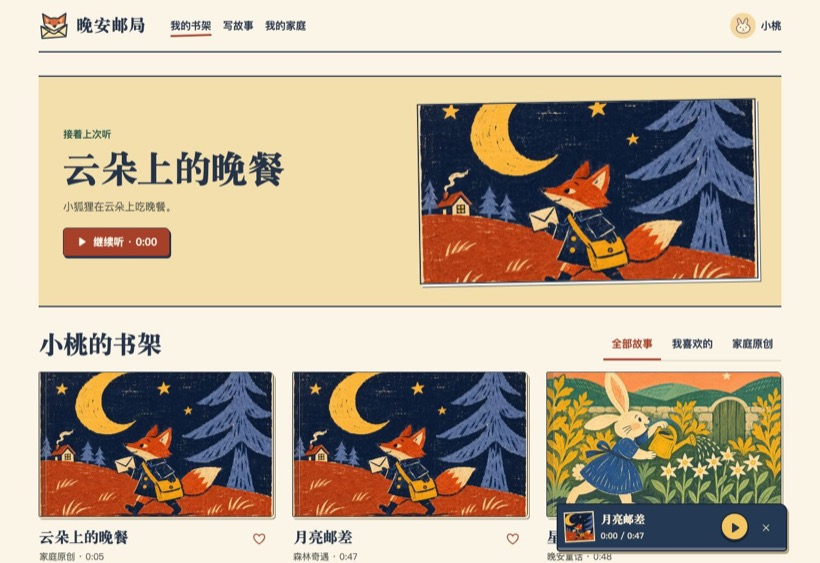
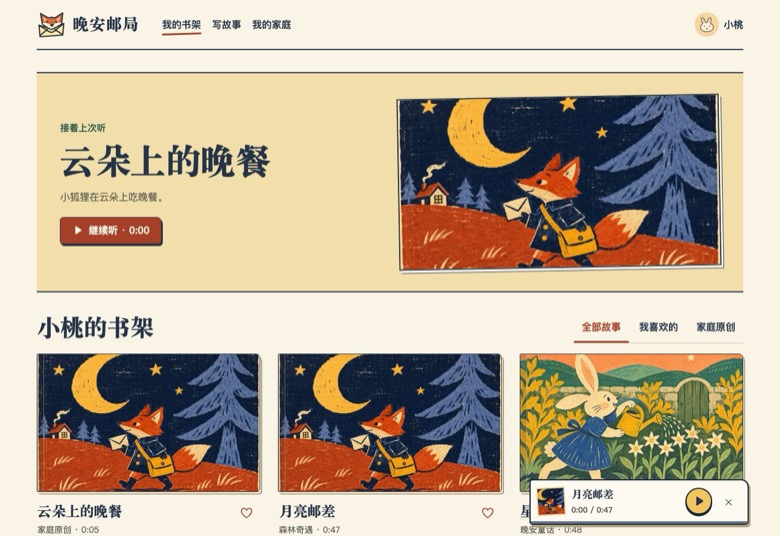
Unify the listening room and add custom sleep timing

diff --git a/web/storybook.css b/web/storybook.css
@@ -33,42 +33,50 @@
 .household .avatar{background:#e8dcbb}.household .card:last-child{border-top:1px dashed #ab9f85}
 #guide-family{max-width:600px;margin-inline:auto}
 .listening-room{max-width:1020px}
-.night{background:#1f3045;color:#fff2d5}.night .mast{color:var(--ink)}.night .mast-inner{border-bottom:0}
-.room-nav{display:flex;align-items:center;justify-content:space-between;margin:0 0 18px;color:#f1e2c6}
+.room-nav{display:flex;align-items:center;justify-content:space-between;margin:0 0 18px;color:var(--green)}
 .room-nav span,.room-back,.radio-series,.radio-tool,.transcript summary{display:inline-flex;align-items:center;gap:8px}.room-back{min-height:44px}
-.storybook-player{display:grid;grid-template-columns:minmax(0,1fr) minmax(0,1fr);align-items:center;border-block:1px solid #7a8998;background:#263b54}
+.storybook-player{display:grid;grid-template-columns:minmax(0,1fr) minmax(0,1fr);align-items:center;border-block:3px double var(--ink);background:#f7ecd3}
 .player-stage{position:relative;isolation:isolate;display:grid;place-items:center;min-width:0;padding:42px 18% 32px 8%;overflow:hidden}
 .story-window{position:relative;width:100%;max-width:340px;transform:rotate(-4deg)}
 .story-window:before{content:"";position:absolute;z-index:-1;right:-16%;top:5%;width:97%;aspect-ratio:1;border-radius:50%;background:repeating-radial-gradient(circle,#182531 0 3px,#47545c 3.5px 4px,#1d2935 4.5px 6px);box-shadow:2px 4px 3px #172735}
 .record-sleeve{padding:5px;background:#f4dfaf;border:1px solid #151f2c;box-shadow:3px 4px #172735}
 .record-sleeve img{display:block;width:100%;aspect-ratio:1;object-fit:cover}
-.story-window figcaption{display:flex;align-items:center;gap:8px;margin-top:9px;color:#eee1c3;font-size:.92rem}
-.stage-star,.stage-moon{position:absolute;z-index:-2;color:#c9ab70}.star-one{left:3%;top:7%}.star-two{right:5%;top:28%}.stage-moon{right:7%;bottom:7%}
+.story-window figcaption{display:flex;align-items:center;gap:8px;margin-top:9px;color:var(--green);font-size:.92rem}
+.stage-star,.stage-moon{position:absolute;z-index:-2;color:#a47a31}.star-one{left:3%;top:7%}.star-two{right:5%;top:28%}.stage-moon{right:7%;bottom:7%}
 .radio-face{min-width:0;padding:32px clamp(20px,3.2vw,46px) 32px 12px}
-.radio-series{color:#f3c661}.radio-face h1{font-size:clamp(2.5rem,5vw,4.3rem);overflow-wrap:anywhere;margin:8px 0;line-height:1.15}
-.radio-source,.radio-face .hint{color:#dddccc;font-size:.92rem}
+.radio-series{color:var(--green)}.radio-face h1{font-size:clamp(2.5rem,5vw,4.3rem);overflow-wrap:anywhere;margin:8px 0;line-height:1.15}
+.radio-source,.radio-face .hint{color:var(--muted);font-size:.92rem}
 .sound-track{margin:20px 0 10px}
 .sound-track #seek{display:block;appearance:none;width:100%;height:32px;margin:0;background:transparent;cursor:pointer;--played:0%}
-#seek::-webkit-slider-runnable-track{height:5px;border-radius:3px;background:linear-gradient(to right,var(--honey) var(--played),#738292 0)}
-#seek::-moz-range-track{height:5px;background:linear-gradient(to right,var(--honey) var(--played),#738292 0)}
-#seek::-webkit-slider-thumb{appearance:none;width:18px;height:18px;border:3px solid #f3c661;border-radius:50%;background:#fff9e6;margin-top:-6.5px}
-#seek::-moz-range-thumb{width:14px;height:14px;border:3px solid var(--honey);border-radius:50%;background:#fff9e6}
-#clock{display:flex;justify-content:space-between;color:#e8dec7;font-variant-numeric:tabular-nums}
+#seek::-webkit-slider-runnable-track{height:5px;border-radius:3px;background:linear-gradient(to right,var(--red) var(--played),#c4b89f 0)}
+#seek::-moz-range-track{height:5px;background:linear-gradient(to right,var(--red) var(--played),#c4b89f 0)}
+#seek::-webkit-slider-thumb{appearance:none;width:18px;height:18px;border:3px solid var(--red);border-radius:50%;background:#fff9e6;margin-top:-6.5px}
+#seek::-moz-range-thumb{width:14px;height:14px;border:3px solid var(--red);border-radius:50%;background:#fff9e6}
+#clock{display:flex;justify-content:space-between;color:var(--muted);font-variant-numeric:tabular-nums}
 .transport,.radio-tools,.listen-invite{display:flex;align-items:center;justify-content:center;gap:18px}
-.transport button{display:grid;place-items:center;min-width:48px;min-height:48px;color:#ffefd0}.transport small{color:#e8dec7;font-size:.78rem}
+.transport button{display:grid;place-items:center;min-width:48px;min-height:48px;color:var(--ink)}.transport small{color:var(--muted);font-size:.78rem}
 .transport .play-disc,.mini-play{display:grid;place-items:center;border-radius:50%;background:var(--honey);color:var(--ink);border:2px solid #162638;box-shadow:0 3px #122237}
-.transport .play-disc{width:70px;height:70px}
+.transport .play-disc{width:70px;height:70px}.play-disc span,.mini-play span{line-height:1}
 :is(.play-disc,.mini-play) .show-pause,:is(.play-disc,.mini-play)[data-playing=true] .show-play{display:none}
 :is(.play-disc,.mini-play)[data-playing=true] .show-pause{display:inline}
-.radio-tools{margin-top:17px;gap:24px}.radio-tool{border-bottom:1px dashed #bdaf91;color:#f6ead2}
-.transcript{padding:16px 0;border-bottom:1px solid #748193;color:#fbf0d6}.transcript p{max-width:42em;line-height:2;margin:14px 0}
+.radio-tools{margin-top:17px;gap:24px}.radio-tool{border-bottom:1px dashed #bdaf91;color:var(--green)}
+.transcript{margin:24px 2px 0;padding:0 clamp(16px,4vw,48px);border:1px solid #b9a682;border-radius:3px 9px 5px 4px;background:#fffaf0;box-shadow:2px 3px #e8dbbb,3px 4px #b9a682}
+.transcript summary{display:flex;min-height:68px;list-style:none;font:700 1.25rem var(--display);gap:14px}
+.transcript summary::-webkit-details-marker{display:none}
+.paper-stamp{display:grid;place-items:center;width:39px;height:43px;color:var(--red);background:#f6e8c9;border:2px dotted #ae8259;transform:rotate(-5deg)}
+.fold-arrow{margin-left:auto;color:var(--green)}.transcript[open] .fold-arrow{transform:rotate(180deg)}
+.story-letter{max-width:40em;margin:auto;padding:clamp(14px,3vw,36px) 0 12px;overflow-wrap:anywhere}
+.story-letter h2{text-align:center;font-size:clamp(1.5rem,3vw,2.1rem);margin:0 0 1em}
+.letter-text{font:clamp(1.05rem,2vw,1.2rem)/2 var(--display);white-space:pre-wrap;tab-size:2;background:repeating-linear-gradient(transparent 0 calc(2em - 1px),#e9dfcb calc(2em - 1px) 2em)}
+.letter-end{display:flex;justify-content:center;align-items:center;gap:12px;margin-top:1.3em;color:var(--red)}.letter-end:before,.letter-end:after{content:"";width:36px;border-top:1px solid #c7b497}
+.transcript .write-link{margin-bottom:12px}
 .listen-invite{flex-wrap:wrap;margin-top:26px}
-#mini{position:fixed;right:max(4vw,16px);bottom:max(18px,env(safe-area-inset-bottom));z-index:4;width:min(360px,92%);display:flex;align-items:center;gap:5px;padding:9px 9px 12px 10px;background:#243953;color:#fff2d6;border:2px solid #192739;border-radius:5px 12px 6px 5px;box-shadow:3px 4px #b5a483;overflow:hidden}
+#mini{position:fixed;right:max(4vw,16px);bottom:max(18px,env(safe-area-inset-bottom));z-index:4;width:min(360px,92%);display:flex;align-items:center;gap:5px;padding:9px 9px 12px 10px;background:var(--panel);color:var(--ink);border:2px solid #192739;border-radius:5px 12px 6px 5px;box-shadow:3px 4px #b5a483;overflow:hidden}
 #mini:after{content:"";position:absolute;bottom:0;left:0;right:0;height:4px;background:linear-gradient(to right,var(--honey) var(--played,0%),#677485 0)}
 .mini-story{display:flex;align-items:center;gap:10px;min-width:0;flex:1;text-align:left}
 .mini-story img{width:47px;height:47px;border:2px solid #f3dda9;object-fit:cover;transform:rotate(-3deg)}
 .mini-story span{min-width:0}.mini-story strong,.mini-clock{display:block}.mini-story strong{overflow:hidden;text-overflow:ellipsis;white-space:nowrap;font-family:var(--display);font-size:1.08rem}
-.mini-clock{color:#e2d9c7;font-size:.8rem;font-variant-numeric:tabular-nums}.mini-play,.mini-close{width:44px;height:44px;flex:none}.mini-close{color:#f5e7c7}
+.mini-clock{color:var(--muted);font-size:.8rem;font-variant-numeric:tabular-nums}.mini-play,.mini-close{width:44px;height:44px;flex:none}.mini-close{color:var(--green)}
 body:has(#mini:not([hidden])) .wrap{padding-bottom:122px}
 @media(max-width:730px){
   .mail-hero{grid-template-columns:1fr;padding:4px 3px 28px;gap:25px}.mail-copy{padding:0}
@@ -158,24 +166,23 @@ body:has(#app[aria-busy]) .mast-inner,
 #app[aria-busy] .ghost.action{width:7em;height:44px}
 #app[aria-busy] :is(.guide-loading-form,.join-loading-form){max-width:600px;margin:16px auto}
 #app[aria-busy] .join-loading-form{max-width:430px;margin-block:12vh}
-#app[data-loading-page=player]{--home-mask:linear-gradient(104deg,#34495e calc(var(--home-light) - 14vw),#495e73 var(--home-light),#34495e calc(var(--home-light) + 14vw))}
-#app[data-loading-page=player] .ghost{background-color:#34495e}
 #app[aria-busy] .ghost.square{width:100%;height:auto;aspect-ratio:1}
 #app[aria-busy] .ghost.track{height:6px;margin-block:34px}
 #app[aria-busy] .ghost.side-key,#app[aria-busy] .ghost.play-key{width:44px;height:44px;border-radius:50%}
 #app[aria-busy] .ghost.play-key{width:70px;height:70px}
 #app[aria-busy] .room-nav{min-height:44px}
-@media(prefers-reduced-motion:reduce){#app[data-loading-page=player]{--home-mask:none}}
 /* The round play marker belongs to the cover button and shares its hit area. */
-.sample-shelf .listen-dot,.sample-shelf .cover{transition:transform .16s ease-out,background-color .16s,color .16s,box-shadow .16s}
+.play-disc,.mini-play,.sample-shelf .listen-dot,.sample-shelf .cover{transition:transform .16s ease-out,background-color .16s,color .16s,box-shadow .16s}
 .sample-shelf .book-title{transition:color .16s,transform .16s}
 @media(hover:hover){
-  #app:not([aria-busy]) .sample-shelf .cover:hover .listen-dot{transform:scale(1.12);color:#fff9eb;background:var(--red);box-shadow:1px 2px var(--ink)}
+  :is(.transport .play-disc,.mini-play):hover,#app:not([aria-busy]) .sample-shelf .cover:hover .listen-dot{transform:scale(1.12);color:#fff9eb;background:var(--red);box-shadow:1px 2px var(--ink)}
   #app:not([aria-busy]) .sample-shelf .book-title:hover{color:var(--red);text-decoration:underline;text-underline-offset:.2em}
 }
-.sample-shelf .cover:focus-visible .listen-dot{background:var(--red);color:#fff9eb}
+:is(.transport .play-disc,.mini-play):focus-visible,.sample-shelf .cover:focus-visible .listen-dot{background:var(--red);color:#fff9eb}
 .sample-shelf .cover:active{transform:translateY(2px);box-shadow:none}
-#app:not([aria-busy]) .sample-shelf .cover:active .listen-dot{transform:scale(.92);background:var(--ink);color:var(--honey)}
+:is(.transport .play-disc,.mini-play):active,#app:not([aria-busy]) .sample-shelf .cover:active .listen-dot{transform:scale(.92);background:var(--ink);color:var(--honey)}
 .sample-shelf .book-title:active{transform:translateY(1px);color:var(--red)}
 .mast[inert] #sign-in,.mast[inert] .profile{border-color:transparent;box-shadow:none;background:#e1dfd2;color:transparent}
 .mast[inert] .profile .avatar{visibility:hidden}
+
+#app[aria-busy] .transcript{min-height:68px;display:flex;align-items:center}

diff --git a/docs/picturebook-concept.html b/docs/picturebook-concept.html
@@ -1,13 +1,13 @@
 <!doctype html><html lang="zh-CN"><meta charset="utf-8"><meta name="viewport" content="width=device-width,initial-scale=1">
 <title>晚安邮局 · 绘本版交互草图</title>
 <style>
-*{box-sizing:border-box}body{margin:0;background:#faf4e6;color:#202d41;font:17px/1.65 system-ui,sans-serif}main,header{max-width:1080px;margin:auto;padding:22px 5vw}header{border-bottom:2px solid;display:flex;justify-content:space-between;align-items:center;gap:16px;flex-wrap:wrap}strong,h1,h2{font-family:"Songti SC",serif}strong{font-size:25px}nav{display:flex;gap:12px;flex-wrap:wrap}a{color:inherit;text-underline-offset:6px}section{display:none}section:target{display:block}body:not(:has(section:target)) #home{display:block}.spread{display:grid;grid-template-columns:1fr 1.1fr;align-items:center;gap:30px;padding:36px 0;border-bottom:2px solid}h1{font-size:clamp(42px,7vw,82px);line-height:1.14;margin:10px 0}em{color:#ad402d;font-style:normal}img{width:100%;display:block}figure{margin:0;background:#ecc35d;padding:12px;transform:rotate(2deg);box-shadow:6px 6px #27374b}figcaption{padding:5px}.listen{display:inline-block;background:#ac402c;color:white;padding:9px 18px;text-decoration:none;border-radius:6px;box-shadow:2px 3px #27374b}#player .spread{padding:28px;background:#22354e;color:#fff6db}.record{padding:12%;border-radius:50%;background:repeating-radial-gradient(#253448 0 4px,#3f5061 5px 6px);aspect-ratio:1;display:grid;place-items:center}.record img{border-radius:50%;aspect-ratio:1;object-fit:cover;width:70%}.line{border-bottom:1px dashed #877b65;padding:16px 0}@media(max-width:650px){.spread{grid-template-columns:1fr}figure{max-width:95%}}
+*{box-sizing:border-box}body{margin:0;background:#faf4e6;color:#202d41;font:17px/1.65 system-ui,sans-serif}main,header{max-width:1080px;margin:auto;padding:22px 5vw}header{border-bottom:2px solid;display:flex;justify-content:space-between;align-items:center;gap:16px;flex-wrap:wrap}strong,h1,h2{font-family:"Songti SC",serif}strong{font-size:25px}nav{display:flex;gap:12px;flex-wrap:wrap}a{color:inherit;text-underline-offset:6px}section{display:none}section:target{display:block}body:not(:has(section:target)) #home{display:block}.spread{display:grid;grid-template-columns:1fr 1.1fr;align-items:center;gap:30px;padding:36px 0;border-bottom:2px solid}h1{font-size:clamp(42px,7vw,82px);line-height:1.14;margin:10px 0}em{color:#ad402d;font-style:normal}img{width:100%;display:block}figure{margin:0;background:#ecc35d;padding:12px;transform:rotate(2deg);box-shadow:6px 6px #27374b}figcaption{padding:5px}.listen{display:inline-block;background:#ac402c;color:white;padding:9px 18px;text-decoration:none;border-radius:6px;box-shadow:2px 3px #27374b}#player .spread{padding:28px;background:#fff9ea;color:#243348;border-block:3px double}.record{padding:12%;border-radius:50%;background:repeating-radial-gradient(#253448 0 4px,#3f5061 5px 6px);aspect-ratio:1;display:grid;place-items:center}.record img{border-radius:50%;aspect-ratio:1;object-fit:cover;width:70%}.line{border-bottom:1px dashed #877b65;padding:16px 0}@media(max-width:650px){.spread{grid-template-columns:1fr}figure{max-width:95%}}
 .books{display:grid;grid-template-columns:repeat(3,minmax(0,1fr));gap:14px}.books img{aspect-ratio:1.6;object-fit:cover}.books a{font-weight:bold}.record img{object-fit:cover}audio{max-width:100%}@media(max-width:450px){.books{grid-template-columns:1fr 1fr}}
 </style>
 <header><strong>晚安邮局</strong><nav><a href="#home">访客首页</a><a href="#shelf">家庭书架</a><a href="#player">播放器</a></nav></header><main>
 <section id="home"><div class="spread"><div><h1>睡前，<br><em>听个故事。</em></h1><p>选一篇放给孩子听，也可以把孩子今天的奇思妙想写成下一篇。</p><a class="listen" href="#player" data-story="fox">听《月亮邮差》</a></div><figure><img src="../web/assets/fox-print.webp" alt="月亮邮差绘本封面"><figcaption>月亮邮差</figcaption></figure></div><h2>挑一本听</h2><div class="books"><a href="#player" data-story="fox"><img src="../web/assets/fox-print.webp" alt="">月亮邮差</a><a href="#player" data-story="rabbit"><img src="../web/assets/rabbit-print.webp" alt="">星星花园</a><a href="#player" data-story="bear"><img src="../web/assets/bear-print.webp" alt="">小熊的纸船</a></div></section>
 <section id="shelf"><h1>小米的书架</h1><div class="line">接着听　<a href="#player" data-story="fox">月亮邮差</a></div><h2>全部故事</h2><p>我喜欢的　·　家庭原创</p><a class="listen" href="#player" data-story="fox">翻开一本</a></section>
-<section id="player"><div class="spread"><div class="record"><img src="../web/assets/fox-print.webp" alt="唱片上的狐狸"></div><div><h1>月亮邮差</h1><p>森林奇遇 · 普通话朗读</p><audio controls src="../web/assets/fox.m4a"></audio><p><a href="#shelf">回书架</a></p></div></div></section></main>
+<section id="player"><div class="spread"><div class="record"><img src="../web/assets/fox-print.webp" alt="唱片上的狐狸"></div><div><h1>月亮邮差</h1><p>森林奇遇 · 普通话朗读</p><audio controls src="../web/assets/fox.m4a"></audio><p><a href="#shelf">回书架</a></p></div></div><details class="line"><summary>睡眠定时</summary><label>多少分钟后暂停 <input type="number" min="1" placeholder="15"></label></details><details class="line"><summary>读故事原文</summary><p>森林里的最后一盏灯还亮着。</p></details></section></main>
 <script>
 const player=document.querySelector('#player'), audio=player.querySelector('audio');
 const titles={fox:['月亮邮差','森林奇遇'],rabbit:['星星花园','晚安童话'],bear:['小熊的纸船','温暖友谊']};

diff --git a/web/player.js b/web/player.js
@@ -92,7 +92,7 @@ function playerPage(){
   const item=listed().find(i=>i.id===routeId);
   if(!item)return '<div class="wrap">'+empty('这篇故事已离开书架','回到书架挑一篇吧。',act('back-shelf','我的书架'))+'</div>';
   loadItem(item,!signedIn);
-  const bedtime=sleepUntil?'定时已开启':'睡眠定时';
+  const bedtime=sleepLabel();
   return `<div class="wrap listening-room"><div class="room-nav">${act('back-shelf',icon('chevron-left',18)+(signedIn?'我的书架':'返回首页'),'room-back')}
     <span>${icon('moon',19)} 听故事</span></div>
     <section class="storybook-player" aria-label="绘本故事播放器">
@@ -102,13 +102,15 @@ function playerPage(){
       <div class="radio-face"><p class="radio-series">${icon('headphones',19)} ${item.recording&&item.audio?'AI 合成朗读':item.audio?'普通话故事录音':'设备中文朗读'}</p>
         <h1>${html(item.title)}</h1>
         <div class="sound-track"><label class="sr-only" for="seek">播放进度</label><input id="seek" type="range" min="0" max="${now.duration}" step=".1" value="${position()}"><div id="clock" class="meta"><span id="elapsed"></span><span id="duration"></span></div></div>
-        <div class="transport"><button data-act="rewind" aria-label="后退 10 秒">${icon('skip-back',26)}<small>10 秒</small></button>
+        <div class="transport"><button data-act="rewind" aria-label="后退 10 秒">${icon('skip-back',32)}<small>后退</small></button>
         <button id="play-button" class="play-disc" data-act="toggle" aria-label="播放"><span class="show-play">${icon('play',32)}</span><span class="show-pause">${icon('pause',32)}</span></button>
-        <button data-act="forward" aria-label="前进 10 秒">${icon('skip-forward',26)}<small>10 秒</small></button></div>
-        <div class="radio-tools">${act(signedIn?'fav':'login',icon(signedIn&&liked(item.id)?'heart-fill':'heart',20)+(signedIn&&liked(item.id)?'已收藏':'收藏'),'radio-tool',item.id)}${act('timer',icon('timer',20)+bedtime,'radio-tool')}</div>
+        <button data-act="forward" aria-label="前进 10 秒">${icon('skip-forward',32)}<small>前进</small></button></div>
+        <div class="radio-tools">${act(signedIn?'fav':'login',icon(signedIn&&liked(item.id)?'heart-fill':'heart',20)+(signedIn&&liked(item.id)?'已收藏':'收藏'),'radio-tool',item.id)}${act('timer',icon('timer',20)+'<span id="sleep-label">'+bedtime+'</span>','radio-tool')}</div>
         <p id="buffering" class="hint" role="status" hidden>${icon('paw',16)} 录音载入中…</p>
       </div></section>
-      <details class="transcript"><summary>${icon('book',22)} 看故事原文</summary><p class="quote">${html(item.text)}</p>${item.audio?'<a class="secondary" href="'+item.audio+'" download>保存这段录音</a>':''}</details>
+      <details class="transcript"><summary><span class="paper-stamp">${icon('rabbit',29)}</span>故事原文<span class="fold-arrow">${icon('chevron-down',21)}</span></summary>
+        <article class="story-letter"><h2>${html(item.title)}</h2><div class="letter-text">${html(item.text)}</div><div class="letter-end" aria-hidden="true">${icon('envelope',24)}</div></article>
+        ${item.audio?'<a class="write-link" href="'+html(item.audio)+'" download>保存这段录音</a>':''}</details>
       ${!signedIn?'<div class="listen-invite"><p>想给孩子写一篇？</p>'+act('login','写自己的故事','secondary')+'</div>':''}
   </div>`;
 }
@@ -116,11 +118,25 @@ pages.set('player',playerPage);
 on('listen',id=>openPlayer(id,true));on('reopen',()=>now&&go('player',now.id));
 on('toggle',()=>isPlaying?pausePlayback():play());on('stop',()=>{stopPlayback();render()});
 on('back-shelf',()=>{if(!signedIn)stopPlayback();go(signedIn?'shelf':'welcome')});on('rewind',()=>seek(position()-10));on('forward',()=>seek(position()+10));
-on('timer',()=>dialog('睡眠定时',pick('minutes','多久后暂停',[['0','关闭定时','sun'],['5','5 分钟','moon'],['15','15 分钟','moon'],['30','30 分钟','moon']],sleepUntil?'15':'0'),submitBtn('保存'),data=>{
-  clearTimeout(sleepTimer);const mins=Number(data.get('minutes'));sleepUntil=mins?Date.now()+mins*60000:0;
-  if(mins)sleepTimer=setTimeout(()=>{pausePlayback();sleepUntil=0;render()},mins*60000);
-  accepted();render();
-}));
+function sleepLabel(){
+  return sleepUntil?new Date(sleepUntil).toLocaleTimeString('zh-CN',{hour:'2-digit',minute:'2-digit',hourCycle:'h23'})+' 暂停':'睡眠定时';
+}
+function setSleepMinutes(minutes){
+  clearTimeout(sleepTimer);
+  sleepUntil=minutes?Date.now()+minutes*60000:0;
+  if(minutes)sleepTimer=setTimeout(()=>{pausePlayback();setSleepMinutes(0);},minutes*60000);
+  if($('#sleep-label'))$('#sleep-label').textContent=sleepLabel();
+}
+on('timer',()=>{
+  const left=sleepUntil?Math.max(1,Math.ceil((sleepUntil-Date.now())/60000)):'';
+  dialog('睡眠定时','<label class="field">多少分钟后暂停？<input type="number" name="minutes" inputmode="numeric" min="1" max="1440" step="1" required placeholder="例如 15" value="'+left+'"></label>',
+    (sleepUntil?act('cancel-sleep','关闭定时','light'):'')+submitBtn('设置定时'),data=>{
+      const minutes=Number(data.get('minutes'));
+      if(!Number.isInteger(minutes)||minutes<1||minutes>1440)throw Error('请输入 1 到 1440 之间的整数分钟。');
+      setSleepMinutes(minutes);accepted();
+    });
+});
+on('cancel-sleep',()=>{setSleepMinutes(0);accepted()});
 document.addEventListener('change',e=>{if(e.target.id==='seek')seek(Number(e.target.value))});
 audio.addEventListener('ended',ended);
 for(const event of ['waiting','canplay','playing'])audio.addEventListener(event,syncPlayer);

diff --git a/web/icons.js b/web/icons.js
@@ -19,6 +19,7 @@ const icon = (() => {
     '<path d="M21.6 17.1c-.7-1.4-2.2-2.3-3.2-3.5 1-.7 1.1-1.8.7-2.4-.3-.5-.9-.6-1.4-.3 0-.9-.8-1.5-1.5-1.1-.4-.8-1.3-1-1.9-.4-.7-.3-1.3 0-1.5.7-.8 2.4.3 4.7 2.3 6.5l3.2 3.1c1.7.4 3.3-.6 3.3-2.6Z"/>' +
     '<path fill="none" stroke-width=".65" d="m6.3 11 .7 1.2m.8-2.3.6 1.6m1.2-2 .4 1.6m7.7-.1-.7 1.2m-.8-2.3-.6 1.6m-1.2-2-.4 1.6"/></g>';
 
+  const skipTen = '<g stroke-width="1.35">' + path('m8.1 11 1.6-1.1v5.2 M15.8 12.5c0 3.5-3.6 3.5-3.6 0s3.6-3.5 3.6 0Z') + '</g>';
   const drawings = {
     fox: foxHead + earsAndEyes,
     'fox-cover': foxHead + earsAndEyes + foxPaws,
@@ -32,8 +33,8 @@ const icon = (() => {
     pen: path('m4 19.8 1.2-5.3L15.3 4.2c1.1-1.1 2.1-1.1 3-.2l1.5 1.5c.9 1 .8 2-.2 3.1l-10 10.1Z M13.8 5.8l4.4 4.4M5.4 14.8l4 3.7m3.2 1.5h7.2'),
     play: solid('M7.1 4.3c0-.9 1-1.4 1.8-.9l11.4 7.5c.8.5.8 1.7 0 2.2L8.9 20.6c-.8.5-1.8 0-1.8-.9Z'),
     pause: '<g fill="currentColor" stroke="none"><rect x="6" y="4.2" width="4.2" height="15.6" rx="1.6"/><rect x="13.8" y="4.2" width="4.2" height="15.6" rx="1.6"/></g>',
-    'skip-back': path('M8.5 3.3 4.3 6.9l4.5 2.7M4.9 7.1a8 8 0 1 1-1.2 7.2 M8.3 12.7l1.2-.7v4.1m5-2c0 2.9-2.8 2.9-2.8 0s2.8-2.9 2.8 0Z'),
-    'skip-forward': path('m15.5 3.3 4.2 3.6-4.5 2.7m3.9-2.5a8 8 0 1 0 1.2 7.2 M8.3 12.7l1.2-.7v4.1m5-2c0 2.9-2.8 2.9-2.8 0s2.8-2.9 2.8 0Z'),
+    'skip-back': path('M7.5 2.4 4 5.8l4.3 2.6 M4.5 5.8A8.5 8.5 0 1 1 3.7 14') + skipTen,
+    'skip-forward': path('m16.5 2.4 3.5 3.4-4.3 2.6 M19.5 5.8A8.5 8.5 0 1 0 20.3 14') + skipTen,
     headphones: path('M3.6 14v-2a8.4 8.4 0 0 1 16.8 0v2m-15.8-1.5h1.8c.6 0 1 .5 1 1v5.1c0 .6-.4 1.2-1 1.2H5.2c-1.4 0-2.5-1.2-2.5-2.6v-2.4c0-1.3.8-2.3 1.9-2.3Zm14.8 0h-1.8c-.6 0-1 .5-1 1v5.1c0 .6.4 1.2 1 1.2h1.2c1.4 0 2.5-1.2 2.5-2.6v-2.4c0-1.3-.8-2.3-1.9-2.3Z'),
     music: path('M8.2 16.2V6.6l10.2-2v9.2 M8.2 9.4l10.2-2M8 16.4c.4 1.2-.4 2.7-1.9 3.1s-2.9 0-3.2-1.2c-.3-1.1.7-2.4 2.1-2.9 1.4-.4 2.7-.1 3 1Zm10.4-2.1c.4 1.2-.4 2.7-1.9 3.1s-2.9 0-3.2-1.2c-.3-1.1.7-2.4 2.1-2.9 1.4-.4 2.7-.1 3 1Z'),
     eye: path('M2.5 12.1c2.7-4.3 5.8-6.2 9.6-6.2 3.9 0 7.1 2.1 9.4 6.2-2.6 4-5.8 6-9.5 6s-7-2-9.5-6Zm12.3 0a2.8 2.8 0 1 1-5.6 0 2.8 2.8 0 0 1 5.6 0Z'),

diff --git a/web/app.js b/web/app.js
@@ -95,7 +95,6 @@ function render(){
     try{if(localStorage.getItem('last-home')!==home)localStorage.setItem('last-home',home);}catch{}
   }
   frontHeader();
-  document.body.classList.toggle('night',page==='player');
   document.querySelectorAll('[data-nav]').forEach(b=>b.classList.toggle('current',b.dataset.nav===(page==='edit'?'create':page==='services'?'family':page==='player'?'shelf':page)));
   $('#profile').innerHTML='<span class="avatar" aria-hidden="true">'+icon('rabbit',27)+'</span>'+html(child()?.name||'选择听众');
   $('#app').innerHTML=pages.get(page)();
@@ -185,7 +184,7 @@ window.addEventListener('DOMContentLoaded',async()=>{
     message.setAttribute('role','alert');message.textContent=e.message||'暂时无法打开书架。';
     const retry=document.createElement('button');
     retry.className='primary';retry.textContent='重新打开';retry.onclick=()=>location.reload();
-    document.body.classList.remove('night');delete app.dataset.loadingPage;app.replaceChildren(message,retry);
+    delete app.dataset.loadingPage;app.replaceChildren(message,retry);
     app.removeAttribute('aria-busy');app.inert=false;$('#home-status')?.remove();
   }
 });

diff --git a/web/index.html b/web/index.html
@@ -118,7 +118,6 @@
       }
       loadingApp.dataset.loadingPage=name;
     }
-    document.body.classList.toggle('night',name==='player');
     document.querySelector('.mast nav').hidden=!member;
     document.querySelector('.guest-links').hidden=member||name==='player';
     document.getElementById('profile').hidden=!member;

diff --git a/docs/product-design.md b/docs/product-design.md
@@ -85,13 +85,13 @@ flowchart TD
 |---|---|
 | 访客首页 | 用原创绘本和可播放的声音来信介绍产品，提供试听与家长登录。 |
 | 儿童首页 | 首屏放「继续听」，其次是「我喜欢的」和系列书架。卡片用稳定的封面、角色和简短标题帮助孩子认故事。兄弟姐妹能看出当前选中的是谁的档案。 |
-| 故事播放器 | 大封面、一个醒目的播放键、进度条、前后跳转和睡眠定时。支持锁屏控制，回到书架时用迷你播放器继续播放。睡前模式降低亮度，关闭持续动画。 |
+| 故事播放器 | 大封面、一个醒目的播放键、进度条、前后跳转和睡眠定时。支持锁屏控制，回到书架时用迷你播放器继续播放。输入 1 到 1440 分钟可设置暂停时间，支持修改或关闭。 |
 | 家长创作台 | 首屏突出「写故事」，有未完成草稿时提供「接着写」。导入已有故事放在创作页的次级入口。进入作品后，正文、版本和录音围绕同一篇故事组织，家长随时知道下一步可以做什么。 |
 | 我的稿架 | 按孩子、系列、主题和发布状态筛选。每篇作品显示谁可以听、当前发布的录音、是否有未发布修改。支持收藏、归档、导出和删除。 |
 | 模型与声音 | 分为「写故事」和「讲故事」两项能力。每项支持多个配置，包括 Provider、服务地址、Model、API Key 和默认参数；分别测试文字生成与声音试听。一个服务商可以承担两项能力。 |
 | 家庭设置 | 管理成员、儿童偏好、家长锁、授权凭据和用量。按月查看文字生成次数、配音字数、音频占用空间，并能定位到具体作品。 |
 
-界面图标统一由原创 SVG 绘制，包含导航、播放器、状态反馈和输入密钥时双爪捂眼的小狐狸。播放器采用绘本小剧场与收音机式大按钮，提供带文字的辅助功能。采用绘本式视觉。白天用奶油底色、手绘动物和圆角书封，睡前切换成深蓝夜色。同一系列固定主角与封面构图，用不同颜色和集数区分故事。播放、暂停等控件保持熟悉的形状，文字与背景保持足够对比度。家长区延续同一套配色，为长文编辑、服务配置和错误提示留出清晰空间。
+界面图标统一由原创 SVG 绘制，包含导航、播放器、状态反馈和输入密钥时双爪捂眼的小狐狸。播放器采用绘本小剧场与收音机式大按钮，提供带文字的辅助功能。采用绘本式视觉。首页与播放页共用奶油纸、朱红印色与木刻插画。展开兔子邮票下的信纸可连续滚动阅读完整原文。同一系列固定主角与封面构图，用不同颜色和集数区分故事。播放、暂停等控件保持熟悉的形状，文字与背景保持足够对比度。家长区延续同一套配色，为长文编辑、服务配置和错误提示留出清晰空间。
 
 ### 全站下拉选择
 
